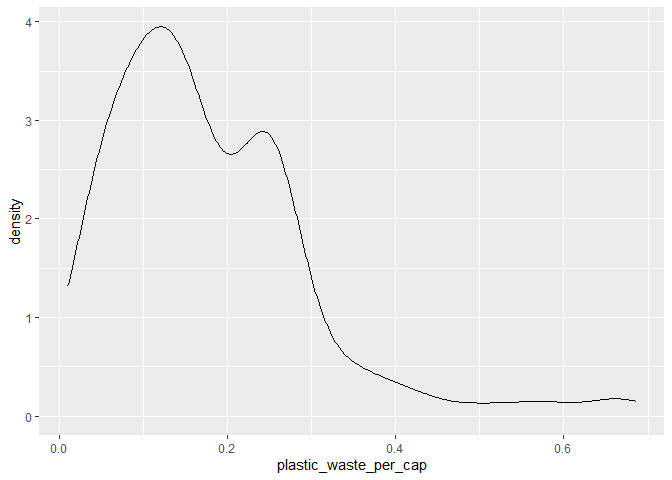
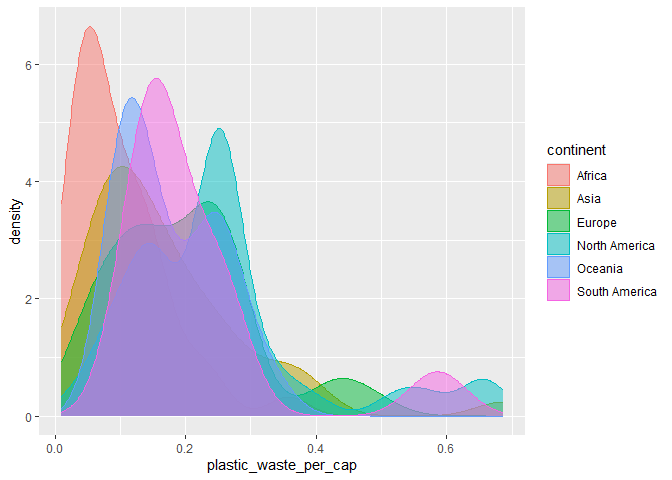
exercice 2 complet

diff --git a/lab-02.md b/lab-02.md
@@ -61,12 +61,13 @@ ceux de l’Amérique du Nord, du Sud et l’Europe.
 
 ``` r
 ggplot(data = plastic_waste%>%
-filter(plastic_waste_per_cap < 3.5), aes(x = plastic_waste_per_cap)) + geom_density()
+filter(plastic_waste_per_cap < 3.5), aes(x = plastic_waste_per_cap, color=continent, fill =continent, )) + geom_density(alpha = 0.5)
 ```
 
 ![](lab-02_files/figure-gfm/plastic-waste-density-1.png)<!-- -->
 
-Réponse à la question…
+Les réglages color et fill sont dans aes parce qu’ils sont associés aux
+variables tandis que alpha vient régler un paramètre du graphique.
 
 ### Exercise 3
 
